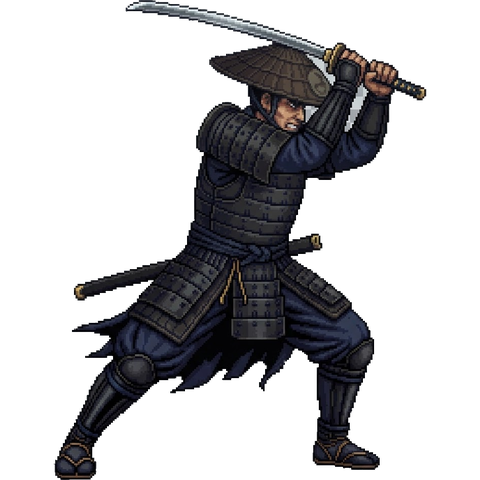
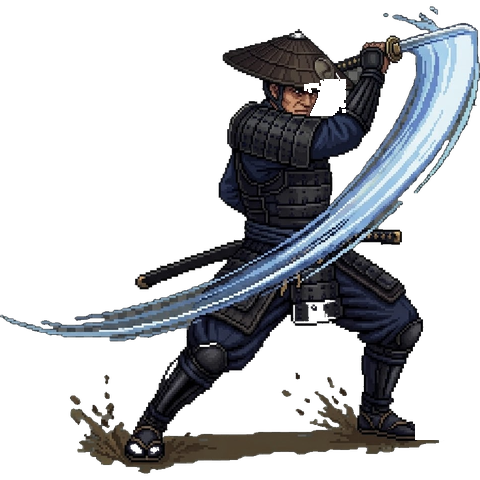
feat(st2): 무사 3포즈 확정 + 연속베기 2연타 모션 + 호버 사정권 미리보기 + 예고 타이밍 개선
- 무사: character14=대기, character8=공격준비, image.png=공격(대참격)으로 재배치
- 연속 베기: 170ms 간격 2연타 모션(잔상·검광·타격음 재생, runId 가드)
- 아이콘 교체: 연속베기=이중 참격 궤적, 발도술=칼집에서 뽑히는 칼날+발도 궤적
- 기술패 호버 시 전장에 사정권 미리보기 — 스트립과 동일 색(빨강=타격,
  파랑=이동, 연빨강=관통 경로), 돌진은 실제 착지점·타격점 그대로 계산
- 적 위험 셀(빨강)은 집행 직전 턴에만 표시 — 차지 중엔 ⚔ 배지가 경고
- 여러 적의 타격 범위 겹침 시 더 진한 빨강 + ⚠⚠ 강조(tele2)
- 검증 86케이스 ×3회 통과

diff --git a/apps/games/st2/index.html b/apps/games/st2/index.html
@@ -48,6 +48,8 @@
       .cell { flex: 1; aspect-ratio: 4/5; min-width: 0; background: linear-gradient(180deg, rgba(255,255,255,.045), rgba(0,0,0,.26)); border: 1px solid rgba(0,0,0,.4); box-shadow: inset 0 -8px 14px rgba(0,0,0,.32), inset 0 1px 0 rgba(255,255,255,.05); border-radius: 6px; position: relative; display: flex; align-items: center; justify-content: center; font-size: clamp(17px, 5.4vw, 30px); transition: background .15s; }
       .cell.tele { background: #3a1c15; border-color: var(--red); box-shadow: inset 0 0 12px rgba(201,67,47,.35); }
       .cell.tele::after { content: '⚠'; position: absolute; top: 2px; right: 4px; font-size: 10px; color: var(--red); }
+      .cell.tele.tele2 { background: #5c1810; border-color: #ff5a3c; box-shadow: inset 0 0 18px rgba(255,90,60,.6), 0 0 8px rgba(201,67,47,.45); }
+      .cell.tele.tele2::after { content: '⚠⚠'; color: #ff5a3c; text-shadow: 0 0 6px rgba(255,90,60,.8); }
       .unit { line-height: 0; position: relative; width: 94%; transform-origin: 50% 100%; animation: breathe 2s ease-in-out infinite; }
       .unit.pl { width: 100%; }
       .unit svg { width: 100%; height: auto; display: block; filter: drop-shadow(0 3px 4px rgba(0,0,0,.55)); }
@@ -124,6 +126,9 @@
       .rng i.R { background: #8f1408; border-color: #5c0d05; box-shadow: 0 0 6px rgba(201,67,47,.9); }
       .rng i.f { background: rgba(201,67,47,.35); border-color: #5c2a20; }
       .rng i.m { background: rgba(127,183,255,.35); border-color: #2c4a6e; }
+      .cell.pv-hit { box-shadow: inset 0 0 0 2px rgba(201,67,47,.55); background: rgba(201,67,47,.16); }
+      .cell.pv-move { box-shadow: inset 0 0 0 2px rgba(127,183,255,.45); background: rgba(127,183,255,.13); }
+      .cell.pv-path { box-shadow: inset 0 0 0 2px rgba(201,67,47,.28); background: rgba(201,67,47,.08); }
       .tile .t-info { font-size: 10.5px; color: var(--dim); margin-top: 2px; line-height: 1.45; }
       .tile .t-cd { position: absolute; top: 6px; right: 8px; font-size: 11px; color: var(--red); font-family: var(--font); }
 
@@ -638,6 +643,7 @@
       var S = null; /* 게임 상태 */
       var uid = 1, runSeq = 0;
       var surrenderArm = 0; /* 항복 2단 확인 (오클릭 방지) */
+      var hoverTile = null; /* 기술패 호버 → 전장 사정권 미리보기 */
       /* 연출 상태 — 한 행동의 이펙트를 320ms 보여준 뒤 스스로 지운다 */
       var FX = { atk: false, slash: [], ehit: [], hurt: [], hurtP: false, dash: [], flash: false, quake: false, fatk: [], threw: false };
       var fxTimer = 0;
@@ -694,12 +700,12 @@
           '<stop offset="0" stop-color="#caa24a"/><stop offset="1" stop-color="#7e5f1e"/></linearGradient></defs>';
       }
       var TILE_ICONS = {
-        seg: '<svg viewBox="0 0 24 24">' + icoDefs('sg') + '<path d="M3 21 L17 5 L20 2 L21 3 L18 6 L5 22 Z" fill="url(#msg)" stroke="#3a3f52" stroke-width=".6"/><rect x="1.6" y="19.2" width="5" height="2.2" rx="1" transform="rotate(-45 4 20)" fill="url(#hsg)"/><path d="M20 2 L21 3" stroke="#fff" stroke-width="1.1"/></svg>',
+        seg: '<svg viewBox="0 0 24 24">' + icoDefs('sg') + '<path d="M2.6 16.4 Q11 14.6 19.4 2.8" fill="none" stroke="url(#msg)" stroke-width="2.6" stroke-linecap="round"/><path d="M6.4 21.2 Q15.4 19.2 22.6 8.2" fill="none" stroke="url(#msg)" stroke-width="1.7" stroke-linecap="round" opacity=".85"/><path d="M19.4 2.8 l1.4-1.6 M22.6 8.2 l1.2-1.4" stroke="#fff" stroke-width="1.1" stroke-linecap="round"/></svg>',
         hoe: '<svg viewBox="0 0 24 24">' + icoDefs('ho') + '<path d="M12 3 A9 9 0 0 1 21 12 L18.6 12 A6.6 6.6 0 0 0 12 5.4 Z" fill="url(#mho)" stroke="#3a3f52" stroke-width=".5"/><path d="M12 21 A9 9 0 0 1 3 12 L5.4 12 A6.6 6.6 0 0 0 12 18.6 Z" fill="url(#mho)" stroke="#3a3f52" stroke-width=".5"/><circle cx="12" cy="12" r="2.2" fill="url(#hho)"/></svg>',
         su: '<svg viewBox="0 0 24 24">' + icoDefs('su') + '<path d="M12 1 L14.2 9.8 L23 12 L14.2 14.2 L12 23 L9.8 14.2 L1 12 L9.8 9.8 Z" fill="url(#msu)" stroke="#3a3f52" stroke-width=".6"/><circle cx="12" cy="12" r="2" fill="#232838" stroke="#5a6480" stroke-width=".7"/></svg>',
         mil: '<svg viewBox="0 0 24 24">' + icoDefs('mi') + '<path d="M6 20 V9 a1.6 1.6 0 0 1 3.2 0 V7 a1.6 1.6 0 0 1 3.2 0 V6.4 a1.6 1.6 0 0 1 3.2 0 V8 a1.5 1.5 0 0 1 3 0 v6.5 c0 3.6-2.6 6-6.2 6 C9 20.5 6 20 6 20 Z" fill="#e0b48a" stroke="#8a6a44" stroke-width=".7"/><path d="M20 7 q3 5 0 10 M22.5 5 q4 7 0 14" stroke="#7fb7ff" stroke-width="1" fill="none" opacity=".8"/></svg>',
         dol: '<svg viewBox="0 0 24 24">' + icoDefs('do') + '<path d="M2 12 L10 6 V10 L18 10 V14 L10 14 V18 Z" transform="rotate(180 10 12)" fill="url(#mdo)" stroke="#3a3f52" stroke-width=".6"/><path d="M3 5 h6 M2 19 h6 M1 12 h3" stroke="#7fb7ff" stroke-width="1" opacity=".7"/></svg>',
-        bal: '<svg viewBox="0 0 24 24">' + icoDefs('ba') + '<rect x="2" y="14.4" width="13" height="3.4" rx="1.6" transform="rotate(-14 8 16)" fill="#1c1a28" stroke="#454258" stroke-width=".6"/><path d="M9 12.6 L20 8.6 L22.6 7 L23 8 L21 9.6 L10 13.6 Z" fill="url(#mba)" stroke="#3a3f52" stroke-width=".5"/><path d="M22.6 7 L23 8" stroke="#fff" stroke-width="1.2"/><path d="M19 5.5 l1.2-1.2 M21.5 11 l1.4.6" stroke="#ffd166" stroke-width=".9"/></svg>',
+        bal: '<svg viewBox="0 0 24 24">' + icoDefs('ba') + '<rect x="0.8" y="17.6" width="11.5" height="3" rx="1.5" transform="rotate(-35 6 19)" fill="#1c1a28" stroke="#454258" stroke-width=".6"/><rect x="7.6" y="12.2" width="4.6" height="2.2" rx="1" transform="rotate(-35 10 13)" fill="url(#hba)"/><path d="M11 12 L21.4 3.2 L23.2 2 L23.8 3 L22 4.4 L12.4 13.6 Z" fill="url(#mba)" stroke="#3a3f52" stroke-width=".5"/><path d="M23.2 2 L23.8 3" stroke="#fff" stroke-width="1.2"/><path d="M14 1.6 A15 15 0 0 1 23.4 8.6" stroke="#cfe0ff" stroke-width="1" fill="none" opacity=".55"/></svg>',
       };
       /* 범위 미니맵: p=자신 · r=타격 · f=경유(관통) · m=이동 (향 방향 오른쪽 기준) */
       var TILE_RANGE = {
@@ -734,7 +740,16 @@
       function execTile(t) {
         var p = S.p, d = p.dir, tgt;
         if (t.key === 'seg') {
-          for (var h2 = 0; h2 < (TILE_DEFS.seg.hits || 1); h2++) { tgt = foeAt(p.pos + d); if (tgt) hitFoe(tgt, t.dmg, t.name); }
+          var hitPos = null;
+          for (var h2 = 0; h2 < (TILE_DEFS.seg.hits || 1); h2++) { tgt = foeAt(p.pos + d); if (tgt) { hitPos = tgt.pos; hitFoe(tgt, t.dmg, t.name); } }
+          if (hitPos != null) { /* 두 번째 베기 모션 — 잔상·검광·타격음 재생 */
+            var encoreRun = S.runId, encorePos = hitPos;
+            setTimeout(function () {
+              if (!S || S.runId !== encoreRun || S.screen !== 'play' || S.over || S.won || S.reward) return;
+              FX.atk = true; FX.slash.push(encorePos); FX.hurt.push(encorePos); SFX.slash();
+              render(); fxSchedule();
+            }, 170);
+          }
         } else if (t.key === 'bal') {
           [foeAt(p.pos + d), foeAt(p.pos + 2 * d)].forEach(function (f3) { if (f3) hitFoe(f3, t.dmg, t.name); });
         } else if (t.key === 'hoe') {
@@ -990,8 +1005,20 @@
         if (!S || S.screen === 'title') { $g.innerHTML = titleHtml(); wire(); return; }
         if ((S.over || S.won) && !S.lock) { $g.innerHTML = endHtml(); wire(); return; }
         if (S.reward) { $g.innerHTML = rewardHtml(); wire(); return; }
-        var teleCells = {};
-        S.foes.forEach(function (f) { if (f.intent) f.intent.cells.forEach(function (c) { teleCells[c] = 1; }); });
+        var teleCells = {}; /* 빨간 위험 표시는 집행 직전 턴(delay 1)에만 — 차지 중엔 ⚔ 배지가 경고 */
+        S.foes.forEach(function (f) { if (f.intent && f.intent.delay <= 1) f.intent.cells.forEach(function (c) { teleCells[c] = (teleCells[c] || 0) + 1; }); });
+        /* 기술패 호버 미리보기 — 스트립과 같은 색(빨강=타격, 파랑=이동, 연빨강=관통 경로) */
+        var pvCells = {};
+        if (hoverTile != null && S.tiles[hoverTile]) {
+          var pk = S.tiles[hoverTile].key, pdv = S.p.dir, pp = S.p.pos;
+          var mark = function (pos, cls) { if (inBoard(pos) && !pvCells[pos]) pvCells[pos] = cls; };
+          if (pk === 'seg') mark(pp + pdv, 'pv-hit');
+          else if (pk === 'bal') { mark(pp + pdv, 'pv-hit'); mark(pp + 2 * pdv, 'pv-hit'); }
+          else if (pk === 'hoe') { mark(pp + 1, 'pv-hit'); mark(pp - 1, 'pv-hit'); }
+          else if (pk === 'su') { for (var sq = pp + pdv; inBoard(sq); sq += pdv) { if (foeAt(sq)) { mark(sq, 'pv-hit'); break; } mark(sq, 'pv-path'); } }
+          else if (pk === 'mil') { mark(pp + pdv, 'pv-hit'); mark(pp + 2 * pdv, 'pv-move'); mark(pp + 3 * pdv, 'pv-move'); }
+          else if (pk === 'dol') { var dp = pp, ds = 0; while (ds < 3 && inBoard(dp + pdv) && !foeAt(dp + pdv)) { dp += pdv; ds++; mark(dp, 'pv-move'); } mark(dp + pdv, 'pv-hit'); }
+        }
         var cells = '';
         for (var i = 0; i < W; i++) {
           var inner = '';
@@ -1023,7 +1050,7 @@
           if (FX.dash.indexOf(i) >= 0) inner += '<span class="fx-dash"></span>';
           if (FX.slash.indexOf(i) >= 0) inner += '<span class="fx-slash"></span>';
           if (FX.ehit.indexOf(i) >= 0) inner += '<span class="fx-ehit"></span>';
-          cells += '<div class="cell' + (teleCells[i] ? ' tele' : '') + '">' + inner + '</div>';
+          cells += '<div class="cell' + (teleCells[i] ? ' tele' + (teleCells[i] > 1 ? ' tele2' : '') : '') + (pvCells[i] ? ' ' + pvCells[i] : '') + '">' + inner + '</div>';
         }
         var idx = ''; for (var j = 0; j < W; j++) idx += '<span>' + (j + 1) + '</span>';
         var intents = S.foes.filter(function (f) { return f.intent; }).map(function (f) { return f.name + ' → <b>' + f.intent.cells.map(function (c) { return c + 1; }).join('·') + '칸</b>'; });
@@ -1100,7 +1127,11 @@
         Array.prototype.forEach.call($g.querySelectorAll('[data-a]'), function (b) {
           b.onclick = function () { act(b.dataset.a === 'left' ? 'move' : b.dataset.a === 'right' ? 'move' : b.dataset.a, b.dataset.a === 'left' ? -1 : b.dataset.a === 'right' ? 1 : undefined); };
         });
-        Array.prototype.forEach.call($g.querySelectorAll('[data-q]'), function (b) { b.onclick = function () { act('queue', +b.dataset.q); }; });
+        Array.prototype.forEach.call($g.querySelectorAll('[data-q]'), function (b) {
+          b.onclick = function () { act('queue', +b.dataset.q); };
+          b.onmouseenter = function () { var v = +b.dataset.q; if (hoverTile !== v) { hoverTile = v; if (S.screen === 'play' && !S.reward) render(); } };
+          b.onmouseleave = function () { if (hoverTile != null) { hoverTile = null; if (S.screen === 'play' && !S.reward) render(); } };
+        });
         Array.prototype.forEach.call($g.querySelectorAll('[data-r]'), function (b) { b.onclick = function () { if (b.dataset.r === 'give') { SFX.die(); newRun(); } else pickReward(+b.dataset.r); }; });
       }
       document.addEventListener('keydown', function (e) {
@@ -1120,7 +1151,7 @@
       });
 
       /* 테스트 훅 (스텁 검증용) */
-      window.__ST2__ = { newRun: newRun, act: act, pickReward: pickReward, state: function () { return S; } };
+      window.__ST2__ = { newRun: newRun, act: act, pickReward: pickReward, state: function () { return S; }, hover: function (i) { hoverTile = i; if (S && S.screen === 'play') render(); } };
 
       /* 타이틀부터 */
       S = null; render();
